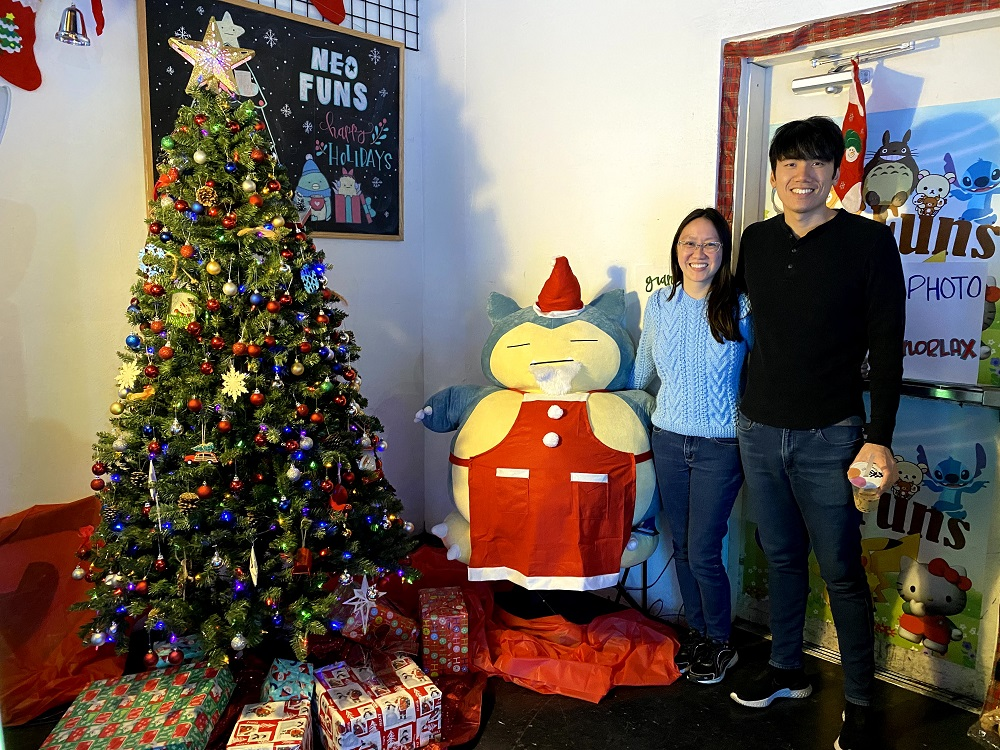
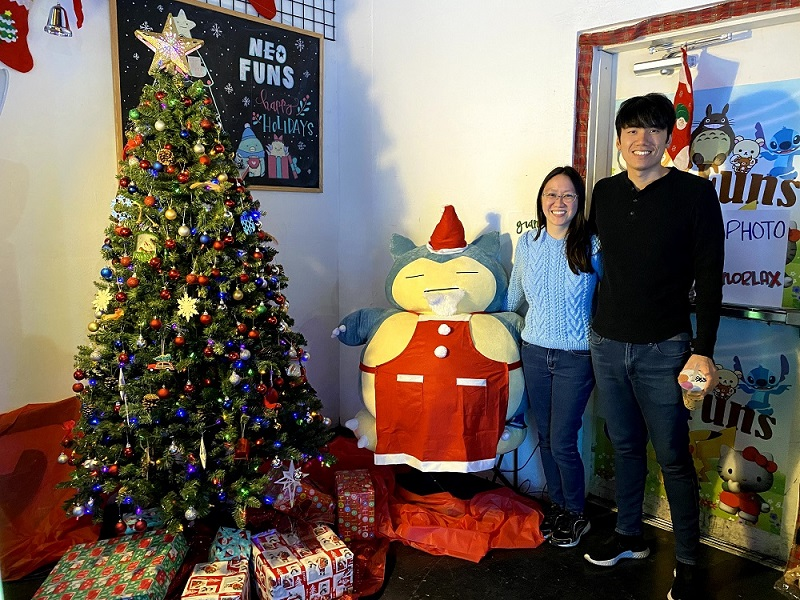
resize images

diff --git a/pages/travel.tsx b/pages/travel.tsx
@@ -42,8 +42,8 @@ export default function Travel() {
           <p>Coming from out of town?</p>
         </PageHeader>
         <div className="border border-gray-200 p-4">
-          <img src="/seattle_skyline.jpg" alt="The Seattle skyline during sunset." />
-          <p className="pt-4">The beautiful Seattle skyline during sunset.</p>
+          <img src="/seattle_skyline.jpg" alt="The beautiful Seattle skyline from Kerry Park." />
+          <p className="pt-4">The beautiful Seattle skyline from Kerry Park.</p>
         </div>
         <SectionHeader>Getting to Seattle</SectionHeader>
         <SectionText>

diff --git a/pages/story/[image].tsx b/pages/story/[image].tsx
@@ -25,8 +25,9 @@ export default function OurStory() {
           <PageHeaderSeparator />
           <p>Photo.</p>
         </PageHeader>
-        <div className="w-full text-center">
+        <div>
           <img
+            className="w-full mx-auto"
             src={`/story/${router.query.image}.jpg`}
             onError={() => router.replace("/story")} />
         </div>

diff --git a/pages/story.tsx b/pages/story.tsx
@@ -25,7 +25,7 @@ export default function OurStory() {
           {(() => {
             const images = []
 
-            for (let i = 0; i <= 28; i++ ) {
+            for (let i = 0; i <= 26; i++ ) {
               images.push(
                 <Link key={`img-${i}`} href={`/story/${i}`}>
                   <a>
